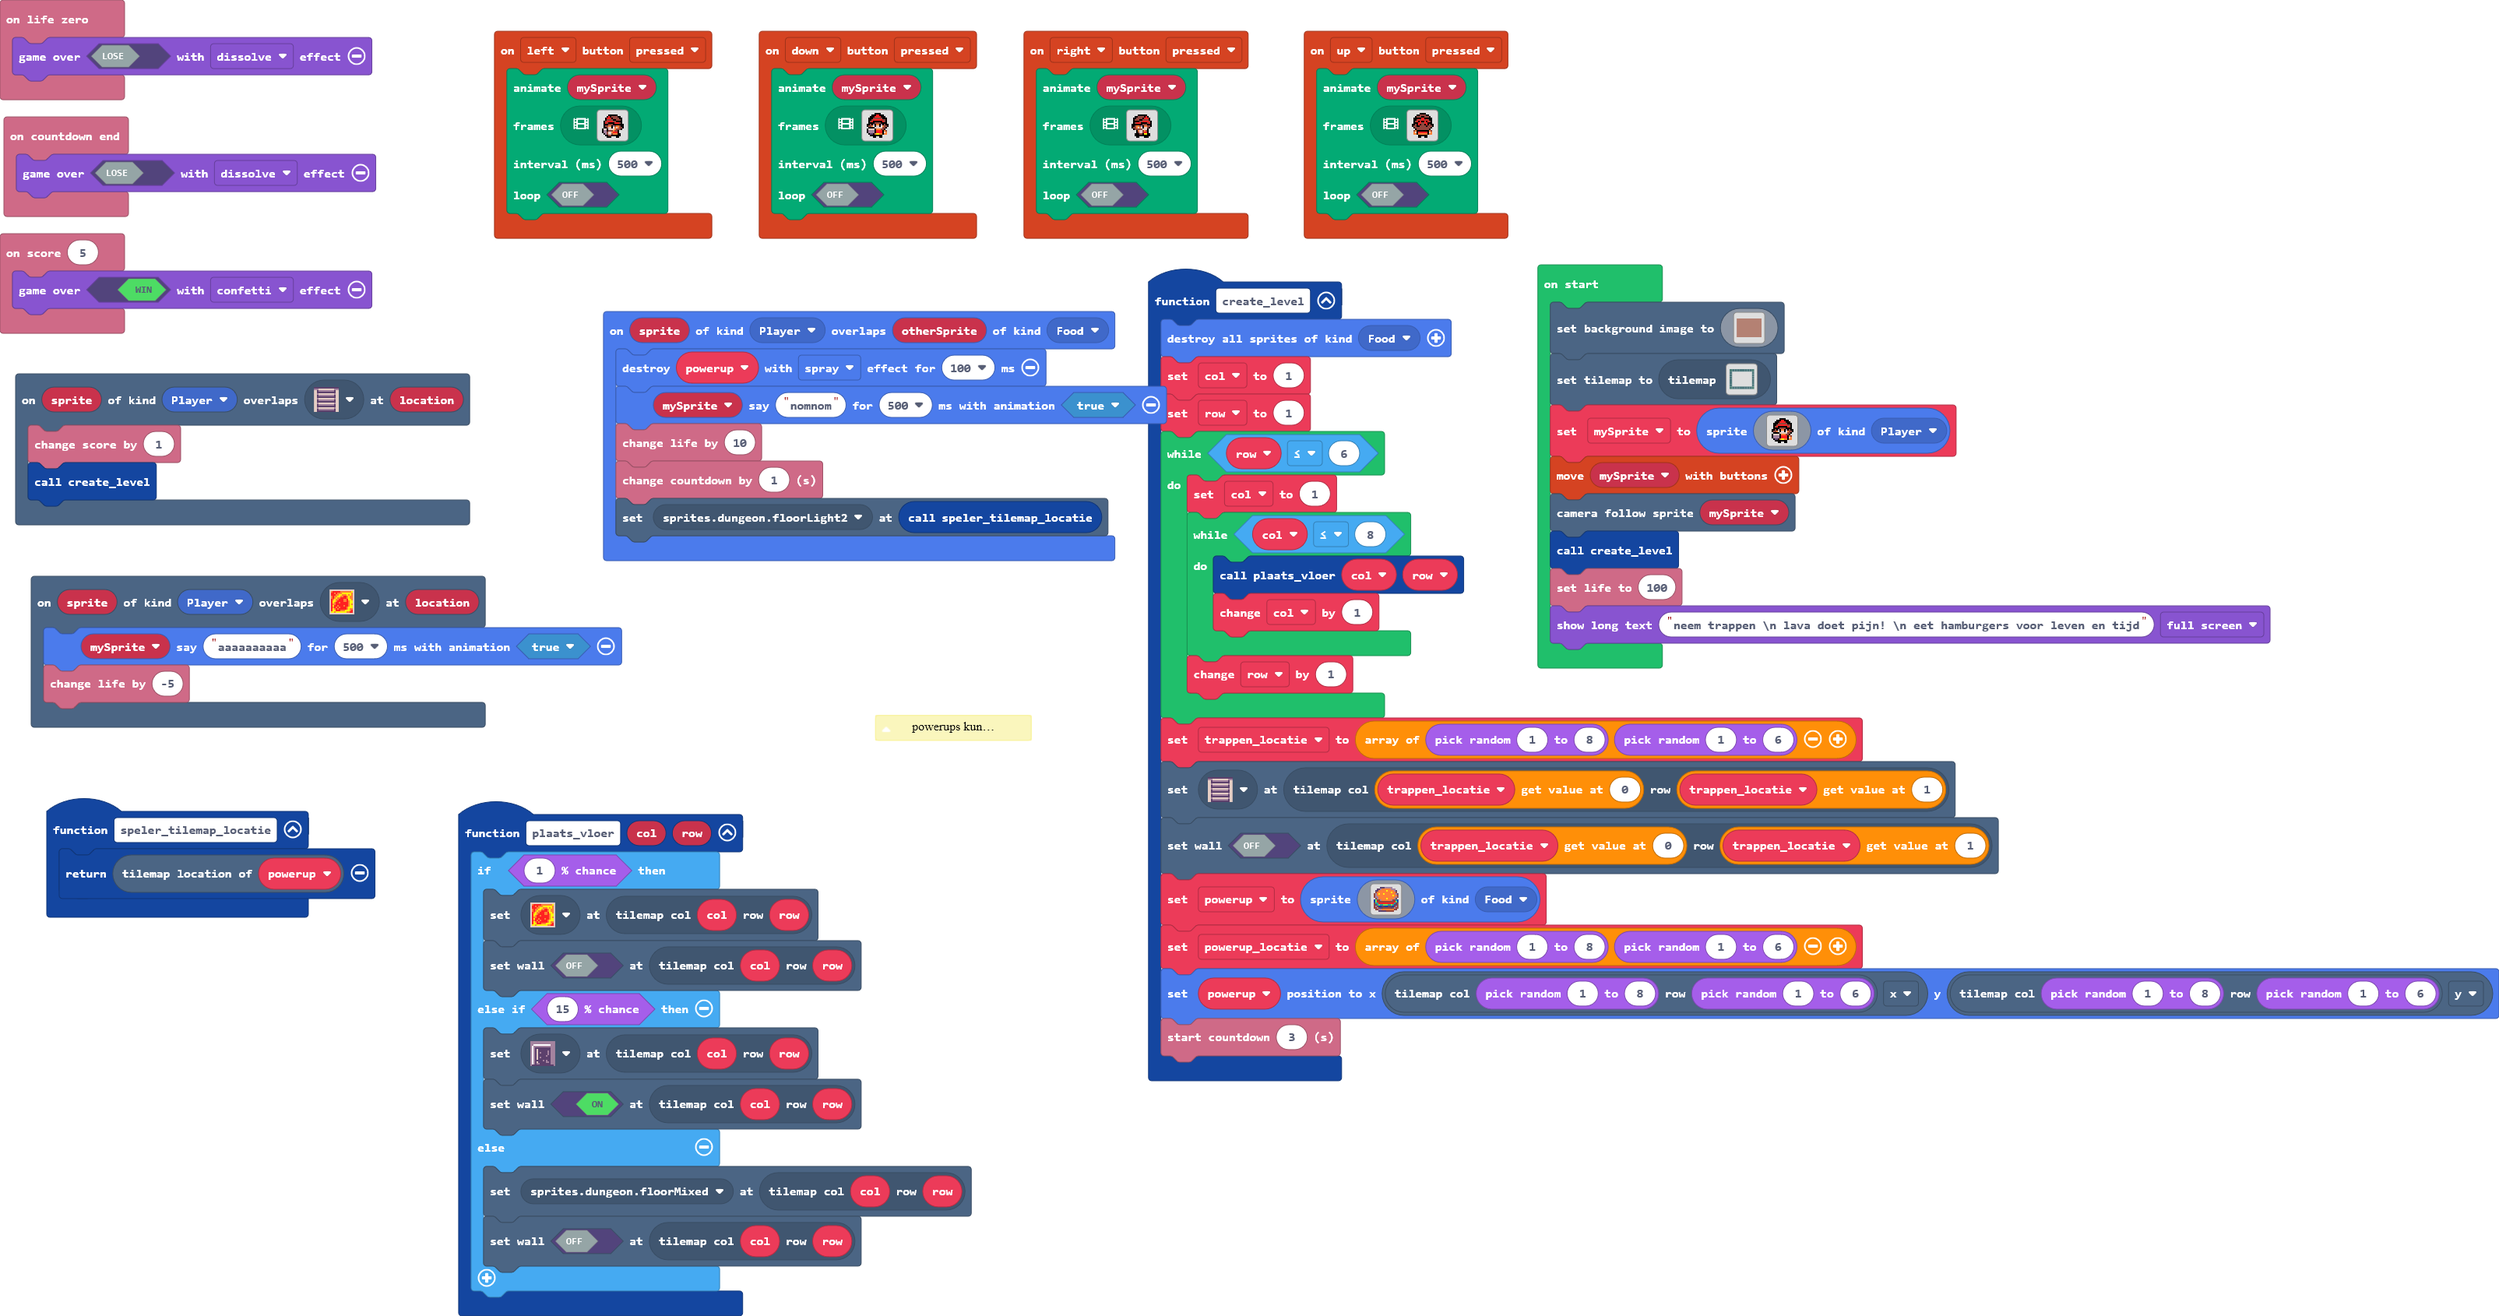
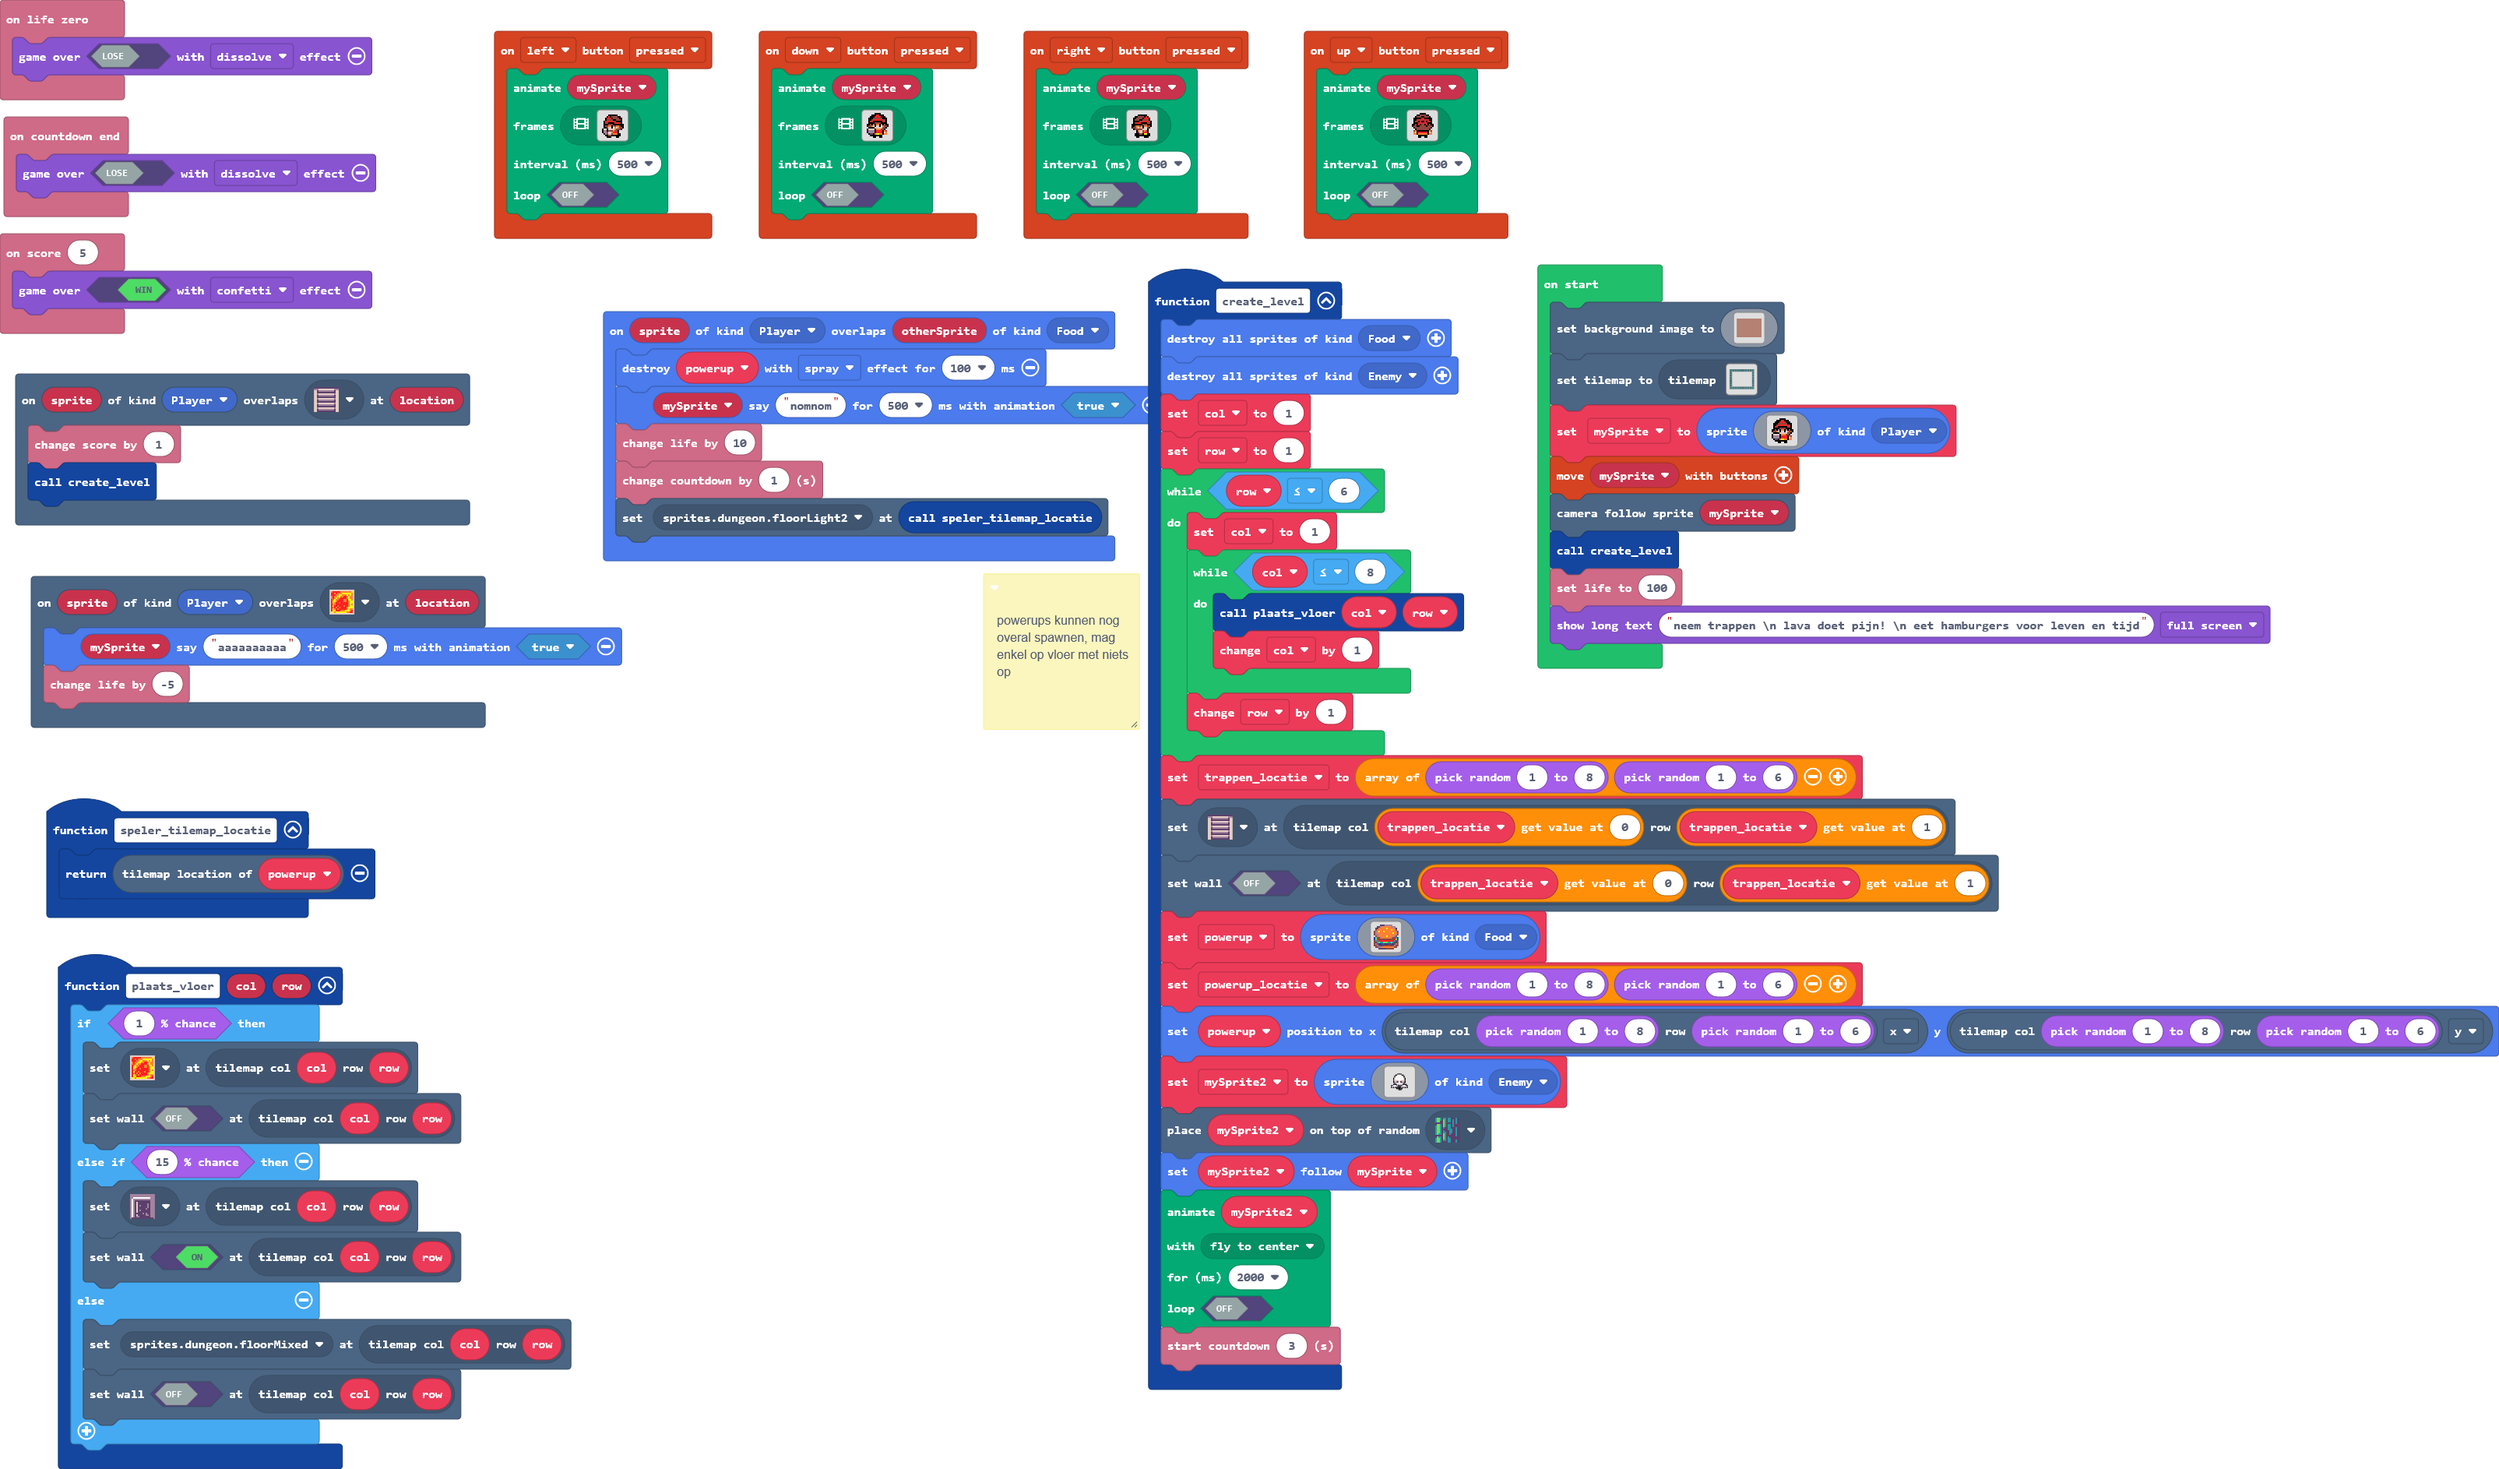
add enemy

diff --git a/main.ts b/main.ts
@@ -319,8 +319,12 @@ controller.down.onEvent(ControllerButtonEvent.Pressed, function () {
 info.onLifeZero(function () {
     game.over(false, effects.dissolve)
 })
+/**
+ * powerups kunnen nog overal spawnen, mag enkel op vloer met niets op
+ */
 function create_level () {
     sprites.destroyAllSpritesOfKind(SpriteKind.Food)
+    sprites.destroyAllSpritesOfKind(SpriteKind.Enemy)
     col = 1
     row = 1
     while (row <= 6) {
@@ -354,6 +358,40 @@ function create_level () {
         `, SpriteKind.Food)
     powerup_locatie = [randint(1, 8), randint(1, 6)]
     powerup.setPosition(tiles.getTileLocation(randint(1, 8), randint(1, 6)).x, tiles.getTileLocation(randint(1, 8), randint(1, 6)).y)
+    mySprite2 = sprites.create(img`
+        ........................
+        ........................
+        ........................
+        ........................
+        ..........ffff..........
+        ........ff1111ff........
+        .......fb111111bf.......
+        .......f11111111f.......
+        ......fd11111111df......
+        ......fd11111111df......
+        ......fddd1111dddf......
+        ......fbdbfddfbdbf......
+        ......fcdcf11fcdcf......
+        .......fb111111bf.......
+        ......fffcdb1bdffff.....
+        ....fc111cbfbfc111cf....
+        ....f1b1b1ffff1b1b1f....
+        ....fbfbffffffbfbfbf....
+        .........ffffff.........
+        ...........fff..........
+        ........................
+        ........................
+        ........................
+        ........................
+        `, SpriteKind.Enemy)
+    tiles.placeOnRandomTile(mySprite2, sprites.dungeon.greenOuterWest1)
+    mySprite2.follow(mySprite)
+    animation.runMovementAnimation(
+    mySprite2,
+    animation.animationPresets(animation.flyToCenter),
+    2000,
+    false
+    )
     info.startCountdown(3)
 }
 sprites.onOverlap(SpriteKind.Player, SpriteKind.Food, function (sprite, otherSprite) {
@@ -366,9 +404,6 @@ sprites.onOverlap(SpriteKind.Player, SpriteKind.Food, function (sprite, otherSpr
 info.onScore(5, function () {
     game.over(true, effects.confetti)
 })
-/**
- * powerups kunnen nog overal spawnen, mag enkel op vloer met niets op
- */
 function plaats_vloer (col: number, row: number) {
     if (Math.percentChance(1)) {
         tiles.setTileAt(tiles.getTileLocation(col, row), assets.tile`myTile`)
@@ -381,6 +416,7 @@ function plaats_vloer (col: number, row: number) {
         tiles.setWallAt(tiles.getTileLocation(col, row), false)
     }
 }
+let mySprite2: Sprite = null
 let powerup_locatie: number[] = []
 let trappen_locatie: number[] = []
 let row = 0
